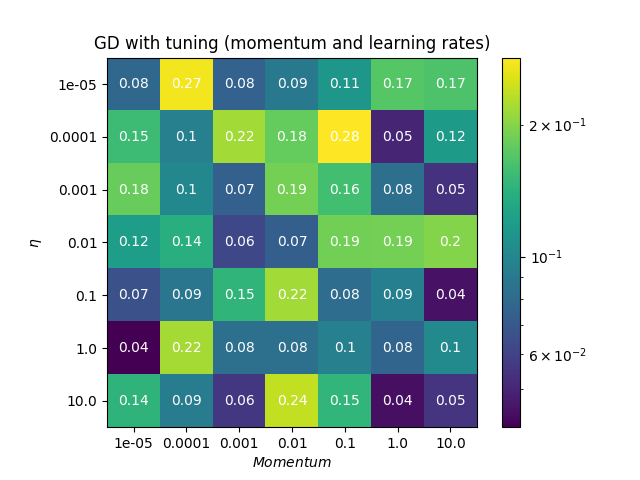
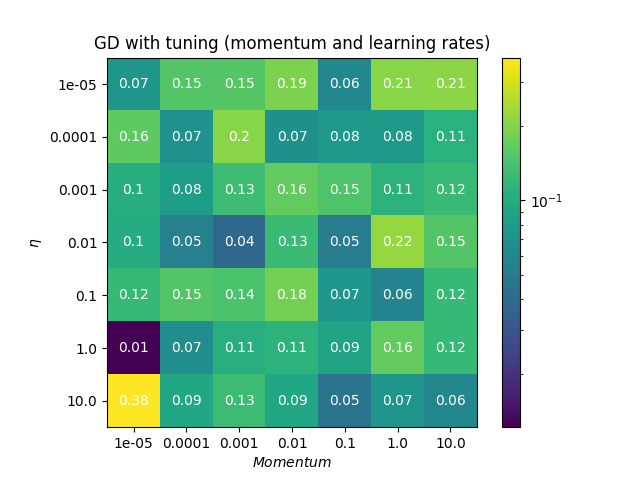
done with part A

diff --git a/src/grid_search.py b/src/grid_search.py
@@ -12,7 +12,7 @@ from accuracy_score import accuracy_score
 from logarithmic_heatmap_plot import create_logarithmic_heatmap_plot
 from sklearn.linear_model import LogisticRegression
 
-def grid_search_hyperparameters_ridge(x, y, y_exact, plot_title, func, lambdas = np.logspace(-5,1,7), epochs = np.linspace(10,190,7, dtype='int'), verbose = False):
+def grid_search_hyperparameters_ridge(x, y, z, plot_title, func, lambdas = np.logspace(-5,1,7), epochs = np.linspace(10,190,7, dtype='int'), verbose = False):
     """
     Doing a grid search over epochs and the lambdas in ridge regression. Then creating a heatmap with the different MSE results for each lambas and epochs. 
 
@@ -40,11 +40,11 @@ def grid_search_hyperparameters_ridge(x, y, y_exact, plot_title, func, lambdas =
     for i, epoch in enumerate(epochs):
         for j, lmd in enumerate(lambdas):
             if func == SGD_Ridge:
-                xnew,y_tilde = func(x,y, Niterations=epoch, momentum=0.01, M=5, eta=0.1, lmbda=lmd, plot=False)
+                xnew,y_tilde = func(x,y,z, Niterations=epoch, momentum=0.01, M=5, eta=0.1, lmbda=lmd, plot=False)
             else:
                 print("wrong function, will only work for SGD_Ridge")
                 return 0
-            mse = MSE(y_exact, y_tilde)
+            mse = MSE(z, y_tilde)
             mse_values[i, j] = mse
 
             if verbose:
@@ -52,7 +52,7 @@ def grid_search_hyperparameters_ridge(x, y, y_exact, plot_title, func, lambdas =
     
     create_logarithmic_heatmap_plot(plot_title, "$\lambda$", "$Epochs$", mse_values, epochs, lambdas, True)
 
-def grid_search_hyperparameters_SGD_epochs(x, y, y_exact, plot_title, func, batch_size = np.linspace(1, 19, 10, dtype='int'), epochs = np.linspace(10, 190, 10, dtype='int'), verbose = False):
+def grid_search_hyperparameters_SGD_epochs(x, y, z, plot_title, func, batch_size = np.linspace(1, 19, 10, dtype='int'), epochs = np.linspace(10, 190, 10, dtype='int'), verbose = False):
     """
     Doing a grid seach over batch size and epochs in with the SGD algorithm. Then creating a heatmap with the different MSE results for each batch size and epochs.
 
@@ -81,11 +81,11 @@ def grid_search_hyperparameters_SGD_epochs(x, y, y_exact, plot_title, func, batc
     for i, epoch in enumerate(epochs):
         for j, M in enumerate(batch_size):
             if func == SGD_Tuned or func == SGD:
-                xnew, y_tilde = func(x,y, Niterations=epoch, momentum=0.01, M=M, eta=0.1, plot=False)
+                xnew, y_tilde = func(x,y,z, Niterations=epoch, momentum=0.01, M=M, eta=0.1, plot=False)
             else:
                 print("wrong function, will only work for SGD")
                 return 0
-            mse = MSE(y_exact, y_tilde)
+            mse = MSE(z, y_tilde)
             mse_values[i, j] = mse
 
             if verbose:
@@ -113,6 +113,7 @@ def grid_search_hyperparameters_SGD(x, y, z, plot_title, func, verbose = False, 
         Defaults to false. If true, each value produces for each iteration will be printed to the console. 
     """
 
+    """    
     if func == GD:
         learning_rates = np.logspace(-5,-1,5)
         momentums = np.logspace(-5,-1,5)
@@ -121,7 +122,10 @@ def grid_search_hyperparameters_SGD(x, y, z, plot_title, func, verbose = False, 
         learning_rates = np.logspace(-5,1,3)
     else:
         learning_rates = np.logspace(-5,1,7)
-        momentums = np.logspace(-5,1,7)
+        momentums = np.logspace(-5,1,7)"""
+
+    learning_rates = np.logspace(-5,1,7)
+    momentums = np.logspace(-5,1,7)
     mse_values = np.zeros((len(momentums), len(learning_rates)))
 
     for i, mom in enumerate(momentums):
@@ -131,7 +135,10 @@ def grid_search_hyperparameters_SGD(x, y, z, plot_title, func, verbose = False, 
             else:
                 xnew,y_tilde = func(x, y, z, Niterations=20, momentum=mom, eta=eta, plot=False)
             mse = MSE(z, y_tilde)
-            mse_values[i, j] = mse
+            if mse > 5000:
+                mse_values[i, j] = None 
+            else:
+                mse_values[i,j] = mse
 
             if verbose:
                 print(f"eta:{eta}, momentum:{mom} gives mse {mse}")

diff --git a/src/SGD.py b/src/SGD.py
@@ -16,7 +16,8 @@ def learning_schedule(t):
     return t0/(t+t1)
 
 def GD(x,y,z,Niterations, momentum, eta=0.1, plot=True):
-    n = len(x)
+    n = len(x.ravel())
+    #n = len(x)
     #X = np.c_[np.ones((n,1)), x, x**2]
     X = create_design_matrix(x, y, 2)
 
@@ -55,7 +56,7 @@ def GD(x,y,z,Niterations, momentum, eta=0.1, plot=True):
 
 
 def SGD(x,y,z,Niterations, momentum, M, eta=0.1, plot=True):
-    n = len(x)
+    n = len(x.ravel())
     #X = np.c_[np.ones((n,1)), x, x**2]
     #X = create_design_matrix_1D(x,2)
     X = create_design_matrix(x, y, 2)
@@ -104,7 +105,8 @@ def SGD(x,y,z,Niterations, momentum, M, eta=0.1, plot=True):
 
 #Added AdaGrad
 def GD_Tuned(x,y,z,Niterations, momentum, eta=0.1, plot=True):
-    n = len(x)
+    n = len(x.ravel())
+
     #X = np.c_[np.ones((n,1)), x, x**2]
     #X = create_design_matrix_1D(x,2)
     X = create_design_matrix(x, y, 2)
@@ -158,8 +160,8 @@ def GD_Tuned(x,y,z,Niterations, momentum, eta=0.1, plot=True):
 
 #Added AdaGrad
 def SGD_Tuned(x,y,z, Niterations, momentum, M=5, eta=0.1, plot=True):
-    #n = len(x.ravel())
-    n = len(x)
+    n = len(x.ravel())
+
     #X = np.c_[np.ones((n,1)), x, x**2]
     #X = create_design_matrix_1D(x,2)
     X = create_design_matrix(x, y, 2)
@@ -205,7 +207,6 @@ def SGD_Tuned(x,y,z, Niterations, momentum, M=5, eta=0.1, plot=True):
     xnew = np.linspace(0,1,n)
     Xnew = create_design_matrix_1D(xnew,2)
     Xnew = create_design_matrix(x, y, 2)
-    print(Xnew.shape, theta.shape, z.shape)
     #ypredict = Xnew.dot(theta)
     ypredict = Xnew @ theta
 
@@ -228,11 +229,11 @@ def SGD_Tuned(x,y,z, Niterations, momentum, M=5, eta=0.1, plot=True):
 
 #Added AdaGrad
 def SGD_Ridge(x,y,z, Niterations, momentum, M, eta=0.1, lmbda=0, plot=True):
-    n = len(x)
+    n = len(x.ravel())
+
     #X = np.c_[np.ones((n,1)), x, x**2]
     #X = create_design_matrix_1D(x,2)
     X = create_design_matrix(x, y, 2)
-    y = z
 
     sh = X.shape[1]
 
@@ -253,7 +254,8 @@ def SGD_Ridge(x,y,z, Niterations, momentum, M, eta=0.1, lmbda=0, plot=True):
         for i in range(m):
             random_index = np.random.randint(m)*M
             xi = X[random_index:random_index+M]
-            yi = y[random_index:random_index+M]
+            yi = z[random_index:random_index+M]
+            yi = yi.reshape(len(yi),1)
             #Changing eta over time
             eta = learning_schedule(iter*m+i)
 
@@ -277,7 +279,9 @@ def SGD_Ridge(x,y,z, Niterations, momentum, M, eta=0.1, lmbda=0, plot=True):
 
     xnew = np.linspace(0,1,n)
     Xnew = create_design_matrix_1D(xnew,2)
-    ypredict = Xnew.dot(theta)
+    Xnew = create_design_matrix(x, y, 2)
+    #ypredict = Xnew.dot(theta)
+    ypredict = Xnew @ theta
 
     if plot:
             
@@ -295,8 +299,6 @@ def SGD_Ridge(x,y,z, Niterations, momentum, M, eta=0.1, lmbda=0, plot=True):
     else:
         return xnew,ypredict
         
-    #testSGD()
-    #Best values: Momentum = 0.1, batch size = 5, iterations = 200-1000 seems suitable enough
 
 def test_tuning(x,y, z, x_exact, y_exact):
     fig, axs = plt.subplots(2,2)

diff --git a/src/PartA.py b/src/PartA.py
@@ -26,9 +26,9 @@ if __name__ == "__main__":
     """
     x, y, z = create_data_samples(DataSamplesType.TEST)
     z = z.ravel()
-    xnew,z_pred = SGD_Tuned(x,y,z, 100, 0.1,5,0.1, False)
-    print(z.shape, z_pred.shape)
-    print(MSE(z, z_pred))
+    #xnew,z_pred = SGD_Tuned(x,y,z, 100, 0.1,5,0.1, False)
+    #print(z.shape, z_pred.shape)
+    #print(MSE(z, z_pred))
 
     #Task A.3
     def testSGD():
@@ -73,9 +73,11 @@ if __name__ == "__main__":
 
     #Task A.5 - testing momentum and learning rates
     #grid_search_hyperparameters_SGD(x,y,z,"SGD with tuning (momentum and learning rates)", SGD_Tuned, verbose=True)
-    grid_search_hyperparameters_SGD(x,y,z,"SGD without tuning (momentum and learning rates)", SGD, verbose=True)
-    grid_search_hyperparameters_SGD(x,y,z,"GD with tuning (momentum and learning rates)", GD_Tuned, verbose=True)
-    grid_search_hyperparameters_SGD(x,y,z,"GD without tuning  (momentum and learning rates)", GD, verbose=True, value_text_in_cells=False)
-    grid_search_hyperparameters_SGD_epochs(x,y,z,"SGD without tuning (epochs and batchsize)", SGD, verbose=True)
-    grid_search_hyperparameters_SGD_epochs(x,y,z,"SGD with tuning (epochs and batchsize)", SGD_Tuned, verbose=True)
-    grid_search_hyperparameters_ridge(x,y,z,"SGD with Ridge (epochs and lambda)", SGD_Ridge, verbose=True)
+    #grid_search_hyperparameters_SGD(x,y,z,"SGD without tuning (momentum and learning rates)", SGD, verbose=True)
+    #grid_search_hyperparameters_SGD(x,y,z,"GD with tuning (momentum and learning rates)", GD_Tuned, verbose=True)
+    
+    #grid_search_hyperparameters_SGD(x,y,z,"GD without tuning  (momentum and learning rates)", GD, verbose=True, value_text_in_cells=True)
+    
+    #grid_search_hyperparameters_SGD_epochs(x,y,z,"SGD without tuning (epochs and batchsize)", SGD, verbose=True)
+    #grid_search_hyperparameters_SGD_epochs(x,y,z,"SGD with tuning (epochs and batchsize)", SGD_Tuned, verbose=True)
+    #grid_search_hyperparameters_ridge(x,y,z,"SGD with Ridge (epochs and lambda)", SGD_Ridge, verbose=True)

diff --git a/src/sample_data.py b/src/sample_data.py
@@ -54,8 +54,8 @@ def create_data_samples_with_franke(max_noise = 0.01):
         Array with the z coordinates as meshgrid
     """
 
-    x = np.arange(0, 1, 0.01)
-    y = np.arange(0, 1, 0.01)
+    x = np.arange(0, 1, 0.1)
+    y = np.arange(0, 1, 0.1)
     x, y = np.meshgrid(x,y)
     z = FrankeFunctionNoised(x,y,max_noise)
 
